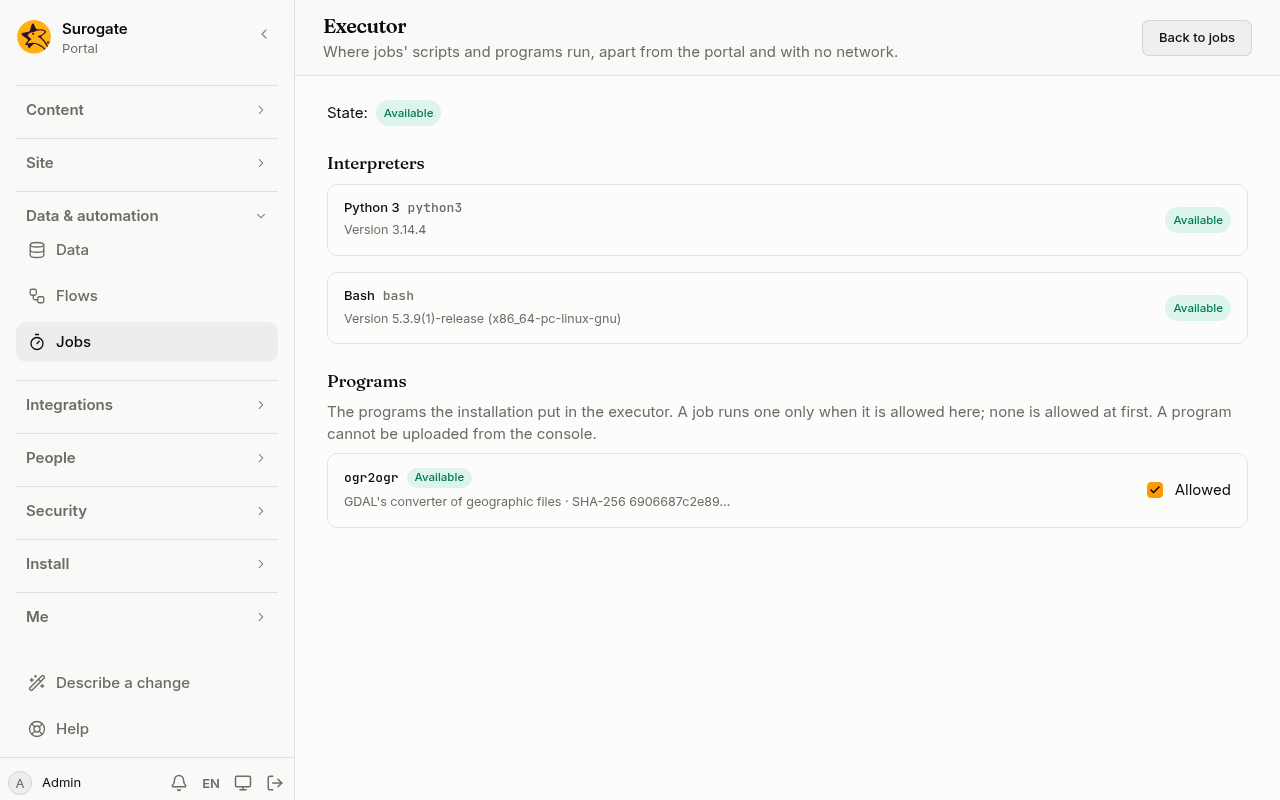
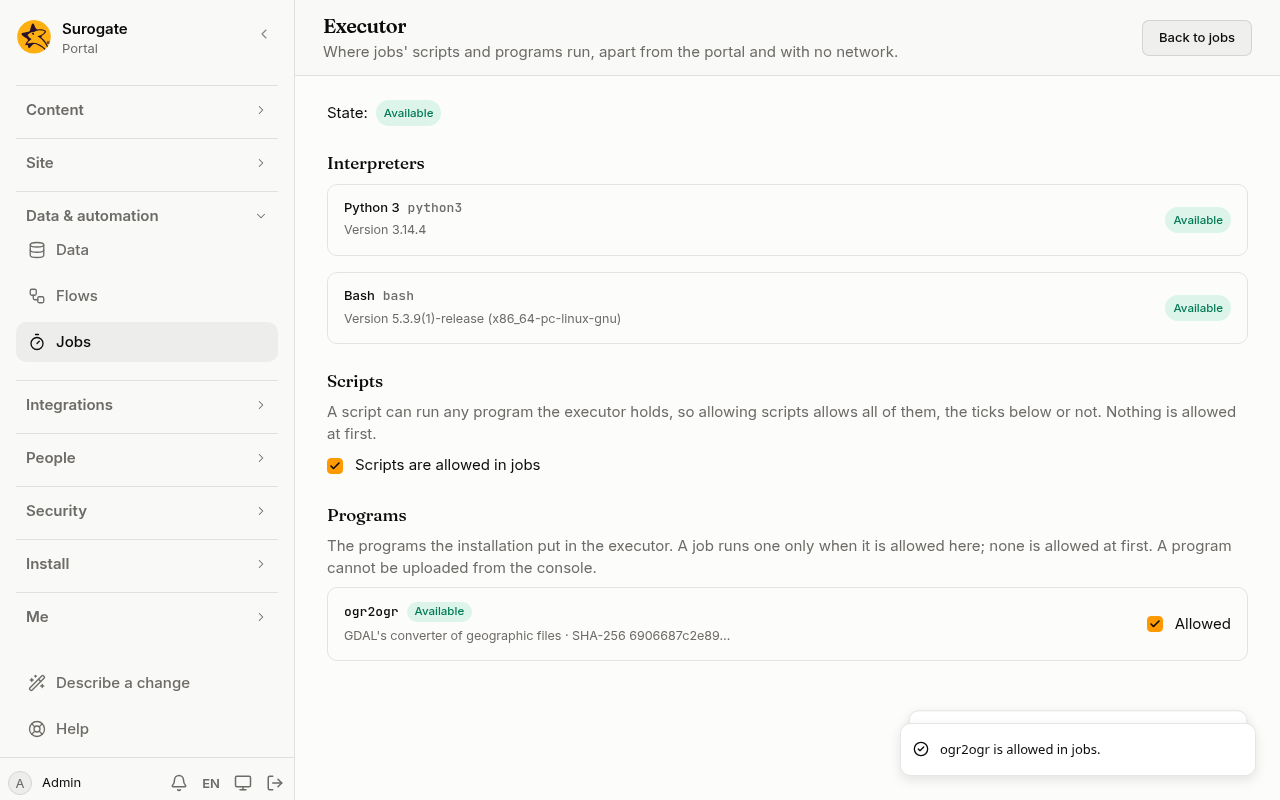
docs(portal): the executor's isolation and install, scripts allowed by an administrator, what reads and decrypts show, and the new Executor page

diff --git a/src/content/docs/portal/sites/jobs.md b/src/content/docs/portal/sites/jobs.md
@@ -81,11 +81,11 @@ A job can start when the portal starts or stops, when a run fails, or at the sta
 
 - **The portal starts:** under **What counts as the portal starting** tick when it counts:
   - **A new configuration is published:** once each time a new configuration is published or rolled back, and when the job first appears. The run knows the revision, and `trigger.reason` is `configuration`.
-  - **A server of the portal starts:** once for each server that starts, after it is ready to serve. `trigger.reason` is `instance`, `trigger.instance` is the server's name, and `trigger.previousStopClean` says whether it was last stopped in order (`true`), was not (`false`), or has never been here (`null`). A server that restarts in a loop starts the job at most once a minute; the history says so when it holds more back. The job never delays the server.
+  - **A server of the portal starts:** once for each server that starts, after it is ready to serve. `trigger.reason` is `instance`, `trigger.instance` is the server's name, and `trigger.previousStopClean` says whether it was last stopped in order (`true`), was not (`false`), or has never been here (`null`). A server that restarts in a loop starts the job at most once a minute, by the server's own record, which a restart does not lose; the history says so when it holds more back. The job never delays the server.
 
 ![The job editor's When tab for a job that starts when the portal starts: the new configuration and the server of the portal starting both ticked.](../../../../assets/screenshots/portal-job-trigger-server.png)
 
-- **A server of the portal stops:** when a server is told to stop, as when it is updated, resized or stopped by hand, it runs these jobs on itself before it goes. The run knows `trigger.instance`, `trigger.startedAt` and `trigger.reason`, which is `shutdown`. All the stop jobs of a server share 20 seconds: one that is not done by then is cut short, and its history says "Interrupted at shutdown". The installation must give the server at least 30 seconds between the stop signal and its forced end (the portal's chart does). A server that is killed, runs out of memory or loses its machine runs nothing; the next server to start notes in the history of each stop job that the server stopped unexpectedly, and `trigger.previousStopClean` is `false` for that server's next start. **Run now** is not offered for a stop job.
+- **A server of the portal stops:** when a server is told to stop, as when it is updated, resized or stopped by hand, it runs these jobs on itself before it goes. The run knows `trigger.instance`, `trigger.startedAt` and `trigger.reason`, which is `shutdown`. All the stop jobs of a server share 20 seconds: one that is not done by then is cut short, and its history says "Interrupted at shutdown". The installation must give the server at least 30 seconds between the stop signal and its forced end (the portal's chart does). A server that is killed, runs out of memory or loses its machine runs nothing; the next server to start notes in the history of each stop job that the server stopped unexpectedly (or, when it had begun to run its stop jobs and was killed in the middle, that a stop job may have run in part), and `trigger.previousStopClean` is `false` for that server's next start. **Run now** is not offered for a stop job.
 - **A run fails:** a form, endpoint or job ended failed. The job names which of the three it hears of; all three when it names none. The run knows which kind and which one, the run's id, the reason and the message. The message is the run's own words only for a job that runs as an administrator, since they may hold what people sent; other jobs get only the words the portal shows anyone, or none.
   - Not heard of: a run the portal was too busy to start, the failures of a job that itself hears of failures, and an endpoint another one called (the run that called it is heard of instead).
   - A job hears of one form, endpoint or job at most once a minute.
@@ -147,9 +147,10 @@ A job can run a script or a program apart from the portal, in the **executor**: 
 
 Under **Jobs**, **Executor** shows what the executor holds:
 
-![The Executor page: its state Available, its interpreters Python 3 and Bash with their versions, and one program, ogr2ogr, with its SHA-256 and the box Allowed ticked.](../../../../assets/screenshots/portal-executor-page.png)
+![The Executor page: its state Available, its interpreters Python 3 and Bash with their versions, the box Scripts are allowed in jobs ticked, and one program, ogr2ogr, with its SHA-256 and the box Allowed ticked.](../../../../assets/screenshots/portal-executor-page.png)
 
 - **Interpreters** and their versions: the languages a script can be written in.
+- **Scripts:** the box **Scripts are allowed in jobs**, not ticked at first. A script can run any program the executor holds, so ticking it allows all of them whatever is ticked under **Programs**: the list of allowed programs holds for **Run a program** only. While it is not ticked, **Run a script** fails with "Scripts are not allowed: an administrator allows them first." (`error.code` is `missing`), and the jobs that have one are listed under **Jobs not running**. Ticking or unticking it is in the audit log.
 - **Programs:** what the installation put in the executor. A job runs one only when an administrator ticks **Allowed**; none is allowed at first, and ticking or unticking it is in the audit log. A program cannot be uploaded from the console. A job that names a program that is not allowed, or is gone from the executor, does not run, and is listed under **Jobs not running** with the reason.
 
 Both actions are for a job's own actions (not a form, flow or endpoint), and only administrators add or change them. They give the run:
@@ -157,14 +158,14 @@ Both actions are for a job's own actions (not a form, flow or endpoint), and onl
 - **Arguments:** a list of expressions, each worked out and given as one argument. They never pass through a shell, so `; rm -rf /` arrives as that text and nothing more.
 - **Input:** an expression written as JSON on the standard input, at most 1 MB.
 - **Folder and names of the files to read:** at most 20 files and 50 MB together, which the script finds under `in/`. The files are read as the person the job runs as may read them.
-- **Folder for the files made:** what the script writes under `out/` is saved there, at most 20 files of at most 10 MB each, of the kinds Files keeps. A name with `..` or `/`, or of a kind not kept, fails the action and writes nothing: all the files are written or none.
+- **Folder for the files made:** what the script writes under `out/` is saved there, at most 20 files of at most 10 MB each and 50 MB together, of the kinds Files keeps. Only plain files count: a link, whatever it points at, fails the run. A name with `..` or `/`, or of a kind not kept, fails the action and writes nothing: all the files are written or none.
 - **Longest time:** 1 to 170 seconds (30 when empty), and never more than what the job's own time leaves, less 10 seconds so that **When it fails** can still run. **Most memory:** 64 to 1024 MB (256 when empty). **The output is JSON** reads the standard output as JSON.
 
 ![The job's Actions tab with Run a script open: the language python3, the script in an editor with its syntax coloured, the arguments one to a line, and the input.](../../../../assets/screenshots/portal-job-run-script.png)
 
 What it keeps (**Keep it as**): `exitCode`, `stdout` (the text, or the JSON when asked), `stderr` (at most 64 KB, also copied to the run's log), `files` (the names saved) and `durationMs`. The action fails when the exit code is not 0, when the time or the memory is past, when the output is not JSON though asked for, or when it is too large. **When it fails** reads `error.code`: `exit`, `timeout`, `memory`, `output`, `busy`, `unavailable`, `missing` or `changed`, and `error.message`.
 
-Each run has a directory of its own, removed after; runs as an unprivileged user with no network, no environment of the portal's, no access to its database or connectors, and a limit on processes; and a script that runs past its time is stopped with every process it started. At most 4 scripts run at once on a portal; the others wait for their turn within the job's time, and a full line fails with `busy`. Before each run of a program, the executor checks that its file is the one the installation declared; if it is not, the run is refused ("The program is no longer the one declared") and the refusal is in the audit log.
+Each run has a directory of its own, removed after; runs as an unprivileged user with no network, no environment of the portal's, no access to its database or connectors, and a limit on processes; and a script that runs past its time is stopped with every process it started. The executor has 4 places, and your portal never holds more than 2 of them (another portal of the installation always finds one): a third run of yours waits for its turn within the job's time, at most 4 wait, and a full line fails with `busy`. Each run is also a user of its own in the executor, so it cannot read another run's files, the executor's memory or its secret, and when it ends every process it started, in whatever group or session, is stopped before the next run uses its place. Before each run of a program, the executor checks that its file is the one the installation declared; if it is not, the run is refused ("The program is no longer the one declared") and the refusal is in the audit log.
 
 ## Run JavaScript
 
@@ -176,7 +177,7 @@ Each run has a directory of its own, removed after; runs as an unprivileged user
 
 ![The log of a run of the job: "info: linii: 3", written by console.log, and "info: Total kg: 60", the sum the code returned.](../../../../assets/screenshots/portal-jobs-run-javascript-log.png)
 
-- The code is at most 64 KB. It runs in a JavaScript engine compiled to WebAssembly (QuickJS), in a process of its own that is stopped when it runs past its **Longest time** (100 to 5000 ms, 1000 when empty, never more than the run has left) or its 64 MB. It has no network, files, modules (`require`, `import`, `fetch`) or timers, and nothing passes from one run to the next.
+- The code is at most 64 KB. It runs in a JavaScript engine compiled to WebAssembly (QuickJS), in a process of its own that is stopped when it runs past its **Longest time** (100 to 5000 ms, 1000 when empty, never more than the run has left; a form or an endpoint anyone may send gets one second at most, and one place at a time) or its 64 MB. It has no network, files, modules (`require`, `import`, `fetch`) or timers, and nothing passes from one run to the next.
 - An error thrown is the action's error, with its message; **When it fails** reads `error.code`: `exception`, `timeout`, `memory` or `output`. A value that is not JSON, such as a function, fails with "The result is not JSON."
 - At most 10 JavaScript actions run in one run. In a flow's tests the code runs as it does everywhere: nothing outside is touched.
 - Only administrators add or change this code, and a save by anyone else is refused and is in the audit log. Proposed changes list every action that runs code, and its changes, among what to look at closely.

diff --git a/src/content/docs/portal/developer/executor.md b/src/content/docs/portal/developer/executor.md
@@ -9,8 +9,10 @@ What these actions do for a site's administrators is on [Automation jobs](/porta
 
 Scripts and programs never run on the portal's server. They run in the **executor**, a separate container (`deploy/executor`, its image from the portal's repository, and the `surogate-portal-executor` chart) that:
 
-- has no network: its pod's policy lets nothing out and lets in only the portal's pods;
-- runs as an unprivileged user on a read-only file system, with a scratch volume;
+- has no network: its pod's policy lets nothing out and lets in only the portal's pods. It checks this when it starts, by trying to reach public addresses and the cloud's metadata address, and **refuses to start** where it can reach any of them (set `EXECUTOR_ALLOW_NETWORK=1` only on a machine you are testing on). A network policy does nothing unless the cluster's network plugin enforces it: use one that does;
+- starts each run as **a user of its own**, from a range of ids set aside for it (`runUidBase`, 41000 to 41003 by default, one id for each of its four places). Runs cannot read each other's files, the executor's memory or its secret; their directories are readable by no one else; and when a run ends, every process that user started, in whatever group or session, is stopped, and what it left in `/tmp` is removed, before the place is used again. The system counts processes by user across the whole node, so choose a range that nothing else on the nodes uses, and a different range for each executor that shares a node;
+- is root in its container, with only the capabilities it needs to do that (`SETUID`, `SETGID`, `KILL`, `CHOWN`, `DAC_OVERRIDE`), no new privileges, a read-only file system and a scratch volume. A cluster that admits only the restricted pod security level refuses it: it needs the baseline level, in a namespace of its own. It refuses to start where it cannot start a run as another user;
+- reads the token the portal signs with from a file (`/run/executor/token`, mounted from the secret, readable by no run) and never from an environment variable;
 - holds the interpreters (Python 3 and Bash in the stock image) and the programs the image is built with (the stock image has `ogr2ogr` and `pdftotext`). A program is added by installing it in the image and naming it in the `RUN bun build-manifest.ts` step of the Dockerfile, which writes `/etc/portal-executor/manifest.json`: its id, description and the SHA-256 of its file.
 
 The portal reaches it with two settings of the portal's chart:
@@ -23,9 +25,13 @@ executor:
     key: token
 ```
 
-The same secret is the executor's `tokenSecret`. Without `executor.url` the portal says it has no executor and the actions are offered but cannot be chosen.
+The same secret is the executor chart's `tokenSecret`. The token is trimmed of surrounding white space on both sides, so a line break at the end of a secret's value does no harm. The portal's calls carry it as a bearer token over plain HTTP: keep the executor inside the cluster, behind its network policy, never on a public address; where traffic between pods is not trusted, put a mesh or TLS in front of it. Without `executor.url` the portal says it has no executor and the actions are offered but cannot be chosen.
 
-Each run: a directory made for it and removed after, an empty environment, `in/` for the files it reads and `out/` for what it makes, a limit on processes, a process group killed whole at its time, and its memory watched (the executor's own container limit is the last guard). At most 4 runs at once. Before a program runs, the executor checks that its file's SHA-256 is the one the manifest declares; if not, the run fails with `changed`.
+The pod is given the memory of all its places at once (4 runs of at most 1024 MB each, and its own room: 5 Gi); change `resources` and the runs' memory together.
+
+Each run: a directory made for it and removed after, an empty environment, `in/` for the files it reads and `out/` for what it makes, a limit on processes for its user, a process group killed whole at its time, and its memory watched. What a run made is read only after nothing of it is left running, and only plain files that no other name points to; a link, whatever it points at, fails the run. At most 4 runs at once in all and 2 for one tenant (the executor tells them apart by what the portal sends with each run), so another tenant always finds a place. Before a program runs, the executor checks that its file's SHA-256 is the one the manifest declares; if not, the run fails with `changed`.
+
+A tenant's administrators decide two things in the console, under **Jobs**, **Executor**: which programs jobs may run, and whether jobs may run scripts at all (**Scripts are allowed in jobs**, off at first). A script can run any program the image holds, so the list of allowed programs holds for `runExecutable` only.
 
 ## The actions
 
@@ -41,6 +47,7 @@ Each run: a directory made for it and removed after, an empty environment, `in/`
   inputNames: "['a.csv']"                     # found under in/
   outputFolder: documente                     # what is written under out/ is saved here
   timeoutSec: 30                              # 1 to 170
+  # what it writes under out/: 20 files, 10 MB each and 50 MB together
   memoryMb: 256                               # 64 to 1024
   outputJson: true
   into: r                                     # {exitCode, stdout, stderr, files, durationMs}
@@ -56,4 +63,4 @@ Each run: a directory made for it and removed after, an empty environment, `in/`
   into: total
 ```
 
-`runScript` and `runExecutable` are for jobs only. `runJs` runs anywhere a list does. All three are changed only by administrators. The executor speaks `GET /info` and `POST /run` (multipart: a JSON `spec` and the input files; the answer is a JSON `result` and the files made), with `Authorization: Bearer <token>`.
+`runScript` and `runExecutable` are for jobs only, and `runScript` fails with `missing` until an administrator allows scripts. `runJs` runs anywhere a list does; its places are shared among tenants (a tenant holds at most 2 of 4), and in a form or an endpoint anyone may send it gets one second at most and one place at a time. All three are changed only by administrators. The executor speaks `GET /info` and `POST /run` (multipart: a JSON `spec` and the input files; the answer is a JSON `result` and the files made), with `Authorization: Bearer <token>`.

diff --git a/src/content/docs/portal/sites/people-actions.md b/src/content/docs/portal/sites/people-actions.md
@@ -13,8 +13,8 @@ The portal's **People** extension lets steps manage the portal's own people, as 
 - **Change a person's groups** gives groups and takes others away, by their names. A group a directory gives stays given.
 - **Unlock a person** clears the failed sign-ins that hold them back.
 - **Delete a person** turns the account off and marks it deleted: the person cannot sign in, their tokens stop working, they lose the roles and groups given by hand, and they leave the list of people (they are under **Deleted people** in **Users**). Their records and history stay, with their name. Jobs only, run as an administrator. The last active administrator, the person the job runs as, and an account a directory or SCIM keeps ("The account is managed by …") are not deleted. An administrator brings the person back under **Users**, **Deleted people**, with **Restore**. Erasing a person for good stays in the console.
-- **Check a login and password** says whether they are right, as the sign-in page would, and signs no one in: it keeps `valid`, the person's `userId` when it is, and `reason` when it is not (`invalid`, `locked`, `disabled` or `noPassword`; a visitor is only told `invalid`, so nothing says whether an address has an account). Each wrong check counts against the same limits as a sign-in's, so an address held back there is held back here, and a right password is not looked at while it is locked. The password is never written in the run's log, a form's kept submission or the audit log; the check is in the audit log as `auth.credentials_checked`, with the login only for an account that exists. It works in forms and endpoints, for anyone.
-- **Register a person** asks for a new account of one's own, in a form anyone may send: it takes an email, a name, an optional password (otherwise the person chooses it) and the user fields to set. The portal mails the link; the account is made, with those fields, when the link is used, and cannot sign in before. It works only while **People may create their own account** is on, and keeps to its email domains and groups. A visitor is told the same whether the address has an account or not; the owner of an address that has one is told by mail. It needs the portal to send mail, and keeps to the same limits as the sign-up page: 3 links an hour for one address and 5 for one network.
+- **Check a login and password** says whether they are right, as the sign-in page would, and signs no one in: it keeps `valid`, the person's `userId` when it is, and `reason` when it is not (`invalid`, `locked`, `disabled` or `noPassword`). Only a job and an administrator are told more than `invalid`; a visitor, and a person who is only signed in, are told `invalid` alone, so nothing says whether an address has an account or whether a password is right for it. Each wrong check counts against the same limits as a sign-in's (an address's, and a network's across addresses where the portal sees the visitor's own network), so an address held back there is held back here, and a right password is not looked at while it is locked. The password is never written in the run's log, a form's kept submission or the audit log; the check is in the audit log as `auth.credentials_checked`, with the login only for an account that exists. It works in forms and endpoints, for anyone.
+- **Register a person** asks for a new account of one's own, in a form anyone may send: it takes an email and a name; the owner of the address chooses the password on the page the link opens. A job or an administrator may also give a password and user fields to set; in a form anyone may send, or a form of a person who is only signed in, they are refused, so that no one can choose the password of an account for someone else's address. The portal mails the link; the account is made when the link is used, and cannot sign in before. It works only while **People may create their own account** is on, and keeps to its email domains and groups. Everyone but a job and an administrator is told the same whether the address has an account or not; the owner of an address that has one is told by mail. It needs the portal to send mail, and keeps to the same limits as the sign-up page: 3 links an hour for one address and 5 for one network.
 
 What a directory or SCIM keeps for a person (their name and fields) is not changed here, as in the console.
 
@@ -24,6 +24,7 @@ What a directory or SCIM keeps for a person (their name and fields) is not chang
 - **Signed-in people** find and change their own name and fields, nothing else. Any other address is refused the same way, whether it has an account or not.
 - **A job** acts as the person it runs as (**Runs as**), who must be an administrator when the step runs. A job that runs as no one, or as someone who is not an administrator, is refused.
 - **A job started by anything but time** (a record, a person's change, mail, a text message, a payment, an app's event, a page request) only finds people: what started it was written by others. A job that changes accounts runs on a schedule.
+- **Not all or nothing with the portal's pages.** These actions change people when they run; if a later action of the same run fails, the person stays changed (the account is turned off, the roles are given), while the changes a run makes to the portal's pages, folders and roles are kept apart and written only when the run ends well. Put the people actions last in a job that also changes the portal's pages.
 - **Forms anyone may send and endpoints anyone may call** use none of these actions, except **Check a login and password** and **Register a person**.
 
 An API token acts here only when it may change the tenant (`tenant:write`), as in the console. An account a directory turned off is turned on by the directory, never by a step.

diff --git a/src/content/docs/portal/sites/portal-actions.md b/src/content/docs/portal/sites/portal-actions.md
@@ -15,6 +15,8 @@ The **Portal administration** actions do from an action list what an administrat
 - **Who may run them.** A **job** only when **Runs as** is an administrator; a **form or endpoint** only when the person who sends it is one, checked when it runs: the action fails with "You are not allowed to do this." and the refusal is in the audit log. They are never allowed in a form anyone may send or a public endpoint, and a job started by anything but time may not use them.
 - **Audit and review.** Each change is in the audit log as done **by an action**, naming the job, form or endpoint. Proposed changes lists these actions among what to look at closely.
 
+Going back over a version that adds or removes code (an undo, or a restore of a version) is for administrators, as saving that code is.
+
 The actions that only read (**Read a page**, **Read a portal (a site)**, **Read a text block's HTML**) run anywhere, and give only what the person may see.
 
 ## Pages
@@ -22,14 +24,14 @@ The actions that only read (**Read a page**, **Read a portal (a site)**, **Read 
 - **Make a page:** the site, the address (`/` or lower-case words joined by hyphens), a title in each language, optionally a layout or a **page template** to start from (its blocks and style are copied), and who sees and who edits it. It keeps `{site, path}`.
 - **Change a page:** its title (the languages you give change, the others stay), layout, description, who sees and edits it, or its address. A new address that another page has is refused.
 - **Remove a page:** the home page is never removed, and neither is a page that has pages under it ("The page has pages under it."); nothing is removed in a cascade.
-- **Read a page:** keeps its site, address, title, layout, description, `parts` (each with its blocks: `id`, `kind` and `settings`) and who sees it. Blocks the person may not see are left out.
+- **Read a page:** keeps its site, address, title, layout, description, `parts` (each with its blocks: `id`, `kind` and `settings`) and who sees it. Blocks the person may not see are left out, and the list of who sees it (which names people and groups) is given to administrators only; anyone else gets nothing there.
 
 ## Portals (sites)
 
 - **Make a portal:** a name in each language, one of the portal's own hosts, a path on it, the languages, who sees it, and optionally **Copy the structure of this site**: its pages, layouts, fragments, templates and design are copied as they are. A portal has at most 50 sites. It keeps `{site, url}`.
 - **Change a portal:** its name, languages, home page, who sees and edits it, and its description.
 - **Remove a portal:** refused while a job uses the site, and when it is the only one with an address.
-- **Read a portal:** its id, name, languages, home page, who sees it and the addresses of its pages.
+- **Read a portal:** its id, name, languages, home page, who sees it and the addresses of its pages. A portal the person may not see is "not there" for them, and the pages they may not see are left out of the list; who sees it is given to administrators only. Reading uses the files as they were read a moment ago while the site has not changed, so a page that many visitors' forms read does not go to the store each time.
 
 ## Blocks
 
@@ -43,4 +45,4 @@ A block has an **id** that stays the same, which the actions name. **Add a block
 
 ## Roles and people
 
-**Give or take roles** gives a person roles and takes others, by their email, as the console does. A run never gives a role it does not hold, and never leaves the portal without an active administrator; roles a directory gives are not taken. **Make a role**, **Change a role** and **Remove a role** work with the roles an organisation defines; a portal that has only the two fixed roles says "no roles of its own to define". Deleting a person is in [Managing people from steps](/portal/sites/people-actions/).
+**Give or take roles** gives a person roles and takes others, by their email, as the console does. A run never gives a role it does not hold, and never leaves the portal without an active administrator; roles a directory gives are not taken. **Make a role**, **Change a role** and **Remove a role** work with the roles an organisation defines; a portal that has only the two fixed roles says "no roles of its own to define". A role carries no right its maker may not give: where the roles store cannot say what the person holds, a role is made with no rights at all. Deleting a person is in [Managing people from steps](/portal/sites/people-actions/).

diff --git a/src/content/docs/portal/developer/people-actions.md b/src/content/docs/portal/developer/people-actions.md
@@ -54,13 +54,14 @@ What these do, and who may run them, are on [Managing people from steps](/portal
 - type: registerPerson
   email: form.email
   name: form.nume
-  password: form.parola   # optional: left out, the person chooses it
+  password: form.parola   # optional, a job's or an administrator's only: left out, the owner of the address chooses it
   fields:
-    unitate: form.unitate # user field: expression
+    unitate: form.unitate # user field: expression, a job's or an administrator's only
   site: primaria
   into: cont              # {status: pending | exists}
 ```
 
 - `deletePerson` is for a job with `runAs` an administrator, never a form; a job started by anything but time may not delete.
-- `checkCredentials` and `registerPerson` may be in a form anyone may send. `registerPerson` needs `signUp` on in the sign-in policy and mail; the sign-up is kept in `self_service_tokens` with its fields and a password hash until the link is used.
+- `checkCredentials` and `registerPerson` may be in a form anyone may send. Without a job or an administrator, `registerPerson` refuses `password` and `fields` ("Only an administrator or a job may give a new account its password."), and `checkCredentials` answers `reason: invalid` for every failure.
+- `deletePerson`, `setPersonRoles` and `registerPerson` act in the database when they run, not with the run's changes to the portal's files, which are written once at its end: a later failure leaves the person changed. `registerPerson` needs `signUp` on in the sign-in policy and mail; the sign-up is kept in `self_service_tokens` with its fields and a password hash until the link is used.
 

diff --git a/src/content/docs/portal/sites/security.md b/src/content/docs/portal/sites/security.md
@@ -35,4 +35,5 @@ Four actions under **Security** keep what must not be read in the clear. Their k
 Plain texts are at most 1 MB. A text decrypted with a wrong key, a changed byte or other associated data only says "The data cannot be decrypted." and nothing more. A key of the wrong length makes the action fail when it runs.
 
 - **Who may:** encryption works in any form, flow, endpoint or job. Decryption works in jobs, in flows, and in forms and endpoints people sign in to; it is refused when a form anyone may send or a public endpoint holds it, as soon as the file is saved.
-- **The text decrypted is sensitive:** a **Write in the log** step that reads it writes `[sensibil]`, as does an error that names it. The value is still there for the steps that follow.
+- **Who may read it:** the decrypting actions take an optional **Who may read the text**, a list of up to 20 principals such as `group:HR` or `user:ana@example.ro`. Only a person who is one of them reads it (a job reads as the person it runs as); anyone else fails with "You are not allowed to read this text." Without the list, anyone who may run decryption, as above, reads it.
+- **The text decrypted is sensitive:** a **Write in the log** step that reads it writes `[sensibil]`, as does an error that names it. A message or an answer that shows it shows it to the person it is for, but the copy kept in the history of the run has `[sensibil]` instead. The value is still there for the steps that follow.

diff --git a/src/content/docs/portal/developer/portal-actions.md b/src/content/docs/portal/developer/portal-actions.md
@@ -76,4 +76,4 @@ actions:
 
 - Keys written as expressions (`path`, `folder`, `block`, `role`, `email`, lists) are worked out at run time, so a run can name what an earlier step made; `site` is a literal id.
 - The changes are made on a working copy of the configuration's files, each checked as a save is, and written as one version at the end of a run that did not fail (`portal.via: action` in the version's data). A site's database rows (its address) are made just before the files are saved and undone if they cannot be.
-- A job with these actions needs `runAs` an administrator and must not start from anything but time; neither is allowed in a form anyone may send. The load actions may run anywhere.
+- A job with these actions needs `runAs` an administrator and must not start from anything but time; neither is allowed in a form anyone may send. The load actions may run anywhere and give only what the person may see: `loadSite` refuses a site the person may not see and leaves out the pages they may not, and `whoSees` is `null` in `loadSite` and `loadPage` unless the person is an administrator. They read the files kept from a moment ago while the site is at the same version.

diff --git a/src/content/docs/portal/sites/document-actions.md b/src/content/docs/portal/sites/document-actions.md
@@ -92,5 +92,5 @@ An action that makes a file changes the portal, so a GET or public [endpoint](/p
 - **Opacity**, 0 to 100;
 - the **folder and name** the new PDF is written to.
 
-What goes past a page's edge is cut by the edge, not refused. The usual limits and rules of document actions apply: a PDF of at most 10 MB and 500 pages, a PDF with a password is refused, and the folders' permissions decide who may read and make files.
+An image of more than 25 million pixels (as its header says, however small its file) is refused before it is read: a 30,000 by 30,000 picture is a few hundred bytes that take gigabytes to draw. What goes past a page's edge is cut by the edge, not refused. The usual limits and rules of document actions apply: a PDF of at most 10 MB and 500 pages, a PDF with a password is refused, and the folders' permissions decide who may read and make files.
 

diff --git a/src/content/docs/portal/developer/security.md b/src/content/docs/portal/developer/security.md
@@ -74,5 +74,5 @@ auth:
   into: mesaj
 ```
 
-`connector` is a reference, never an expression. AES output is base64 of `IV(12) ‖ ciphertext ‖ tag(16)`. RSA is OAEP with SHA-256. `rsaEncrypt` takes `connector` or `publicKey`, one of the two. `aesDecrypt` and `rsaDecrypt` are refused in a public form or endpoint.
+`connector` is a reference, never an expression. AES output is base64 of `IV(12) ‖ ciphertext ‖ tag(16)`. RSA is OAEP with SHA-256. `rsaEncrypt` takes `connector` or `publicKey`, one of the two. `aesDecrypt` and `rsaDecrypt` are refused in a public form or endpoint, and take an optional `who`, an expression for a list of up to 20 principals (`"['group:HR', 'user:ana@example.ro']"`) that alone may read the text. What they return is replaced by `[sensibil]` in the run's log, in its errors and in the outcome kept in the history.
 

diff --git a/src/content/docs/portal/developer/document-actions.md b/src/content/docs/portal/developer/document-actions.md
@@ -148,7 +148,7 @@ Reading gives a list of maps, the first row naming the columns:
 ## An image in a PDF
 
 ```yaml
-- type: pdfImage
+- type: pdfImage   # an image of more than 25 million pixels is refused before it is decoded
   folder: fise
   name: "'fisa-usp-123.pdf'"
   imageFolder: fise
